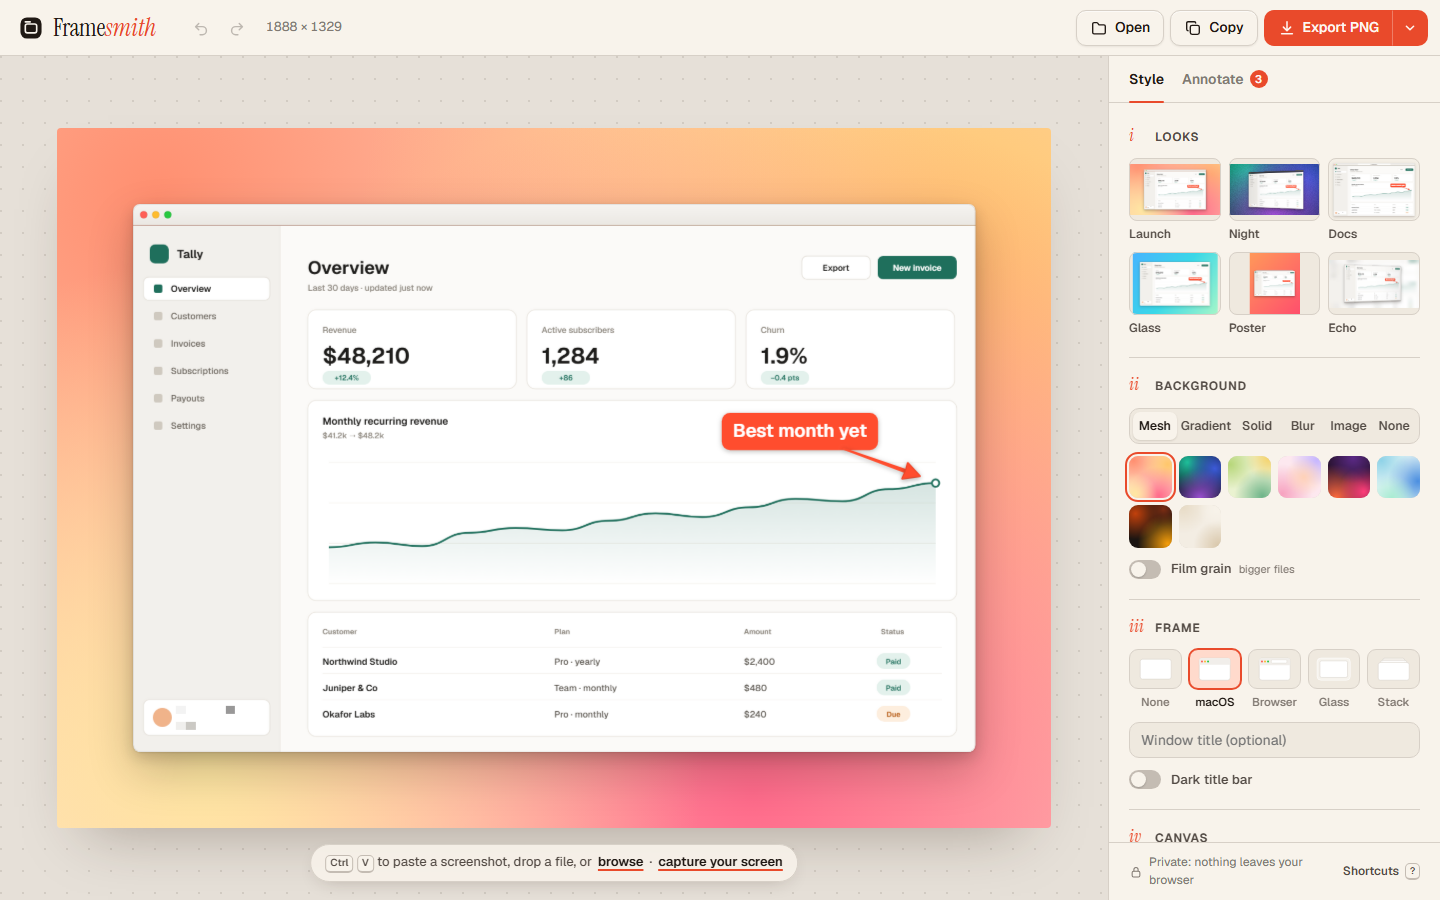
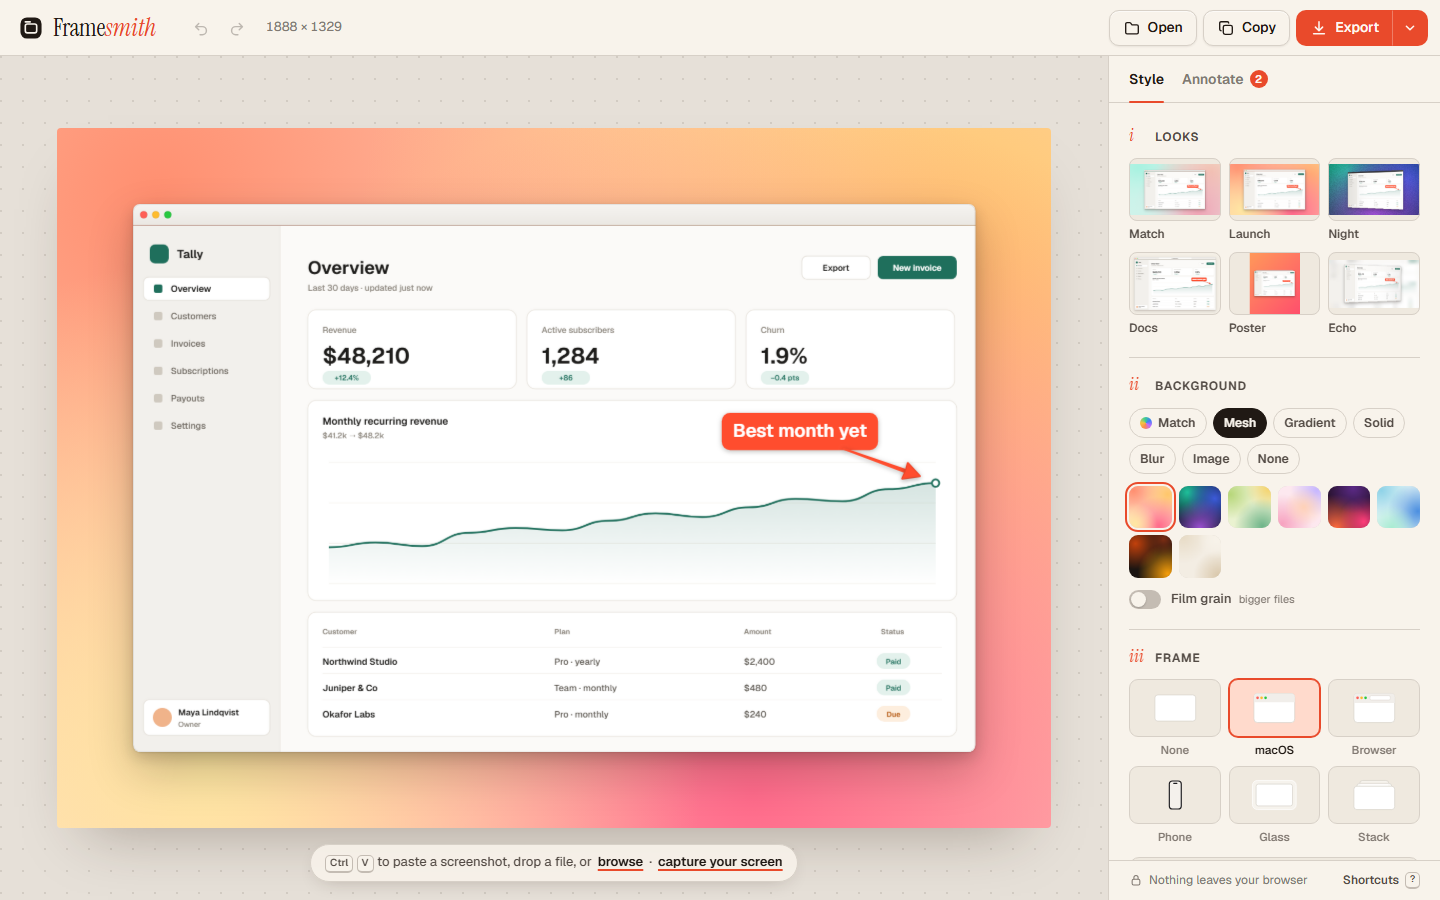
IndexedDB load timeout, full-width floating bars on mobile, Match look, adaptive looks, README

diff --git a/public/styles.css b/public/styles.css
@@ -406,9 +406,11 @@ kbd {
 
 .stage-hint {
   position: absolute;
-  left: 50%;
+  left: 16px;
+  right: 16px;
+  margin-inline: auto;
+  width: fit-content;
   bottom: 18px;
-  translate: -50% 0;
   display: flex;
   align-items: center;
   flex-wrap: wrap;
@@ -960,9 +962,11 @@ input[type='range'].centered::-moz-range-track {
 /* crop toolbar */
 .crop-bar {
   position: absolute;
-  left: 50%;
+  left: 12px;
+  right: 12px;
+  margin-inline: auto;
+  width: fit-content;
   bottom: 16px;
-  translate: -50% 0;
   display: flex;
   align-items: center;
   flex-wrap: wrap;
@@ -1293,6 +1297,9 @@ input[type='range'].centered::-moz-range-track {
   .crop-bar {
     bottom: 8px;
     gap: 8px;
+  }
+  .app[data-mode='crop'] {
+    grid-template-rows: var(--bar-h) minmax(460px, 72dvh) auto;
   }
 }
 

diff --git a/public/sw.js b/public/sw.js
@@ -1,5 +1,5 @@
 // Framesmith service worker: offline app shell + "Share to Framesmith" on mobile.
-const VERSION = 'fs-v2';
+const VERSION = 'fs-v3';
 const SHELL = [
   '/',
   '/styles.css',
@@ -12,6 +12,9 @@ const SHELL = [
   '/js/history.js',
   '/js/trim.js',
   '/js/demo.js',
+  '/js/crop.js',
+  '/js/palette.js',
+  '/js/session.js',
   '/icons/icon.svg',
   '/icons/icon-192.png',
 ];

diff --git a/README.md b/README.md
@@ -30,10 +30,17 @@ uploads nothing and is fast enough to stay part of your posting routine.
   installed.
 - **Looks.** One-click presets rendered live *with your own screenshot*, so you can see the
   result before you pick it.
-- **Backgrounds.** Mesh gradients, linear gradients, solids with a custom picker, a blurred copy
-  of your screenshot, your own wallpaper, or transparent. Film grain is optional.
-- **Frames.** macOS window, browser window with an editable URL (light or dark), glass border
-  and stacked cards.
+- **Match backgrounds.** Framesmith reads the accent colours out of your screenshot and builds a
+  mesh that belongs with it, in soft, vivid, deep or duotone. Every shot gets its own palette.
+- **More backgrounds.** Mesh gradients, linear gradients, solids with a custom picker, a blurred
+  copy of your screenshot, your own wallpaper, or transparent. Film grain is optional.
+- **Frames.** macOS window, browser window with an editable URL, a phone with bezel and
+  dynamic island (light or dark), glass border and stacked cards. Tall screenshots get the
+  phone automatically, and the looks adapt too.
+- **Crop and place.** Crop with ratio lock and auto-trim (<kbd>C</kbd>). Drag the shot anywhere
+  on the canvas, or let it bleed off an edge, with centre snapping. Annotations stay pinned to
+  their pixels through every crop.
+- **Signature.** An optional `@handle` badge in a bottom corner.
 - **3D tilt.** A true perspective warp with a matching shadow and sheen. It's not a CSS trick,
   so it exports exactly as you see it.
 - **Canvas sizes.** Auto, 16:9 (X), 1.91:1 (Open Graph/LinkedIn), 4:3, 1:1, 4:5 and 9:16. The
@@ -42,12 +49,15 @@ uploads nothing and is fast enough to stay part of your posting routine.
 - **Annotate.** Tapered arrows, boxes, highlighter, text labels, auto-numbered steps,
   spotlight, and redaction that pixelates for real (the original pixels are not in the
   export). Everything is movable, reshapable and recolorable.
-- **Export.** PNG, JPEG or WebP at 1×/2×/3×. It shows the file size and warns when a PNG would
-  go over X's 5 MB limit. Copy to clipboard in one keystroke.
-- **Undo everything.** Full undo/redo history, keyboard-first (`V A R H T N B F`,
-  <kbd>⌘Z</kbd>, <kbd>⌘C</kbd>, <kbd>⌘S</kbd>, <kbd>?</kbd> for the cheat sheet).
-- **Remembers you.** Your last style and saved styles persist locally. Works offline as an
-  installable PWA, with light and dark themes.
+- **Export.** Auto picks PNG, or switches to JPEG/WebP when a PNG would go over X's 5 MB upload
+  limit and tells you what it saved. PNG, JPEG or WebP are also available at 1×/2×/3×. Copy to
+  clipboard in one keystroke.
+- **Undo everything.** Full undo/redo history with Undo buttons right in the notifications,
+  keyboard-first (`V A R H T N B F C`, <kbd>⌘Z</kbd>, <kbd>⌘C</kbd>, <kbd>⌘S</kbd>, <kbd>?</kbd>
+  for the cheat sheet).
+- **Picks up where you left off.** Your last screenshot, crop, annotations and style come back
+  after a reload (stored in IndexedDB on your device). Saved styles persist too. Works offline
+  as an installable PWA, with light and dark themes.
 
 ## How it's built
 
@@ -64,6 +74,9 @@ public/
     render.js         one renderer for preview and export (background → shadow → card → tilt)
     backgrounds.js    procedural gradients, meshes, grain, blur
     annotations.js    annotation model, hit-testing, handles (pure)
+    crop.js           crop rectangle math with ratio lock (pure)
+    palette.js        accent-colour extraction + Match background builder (pure)
+    session.js        last-session persistence in IndexedDB
     trim.js           uniform-border detection (pure)
     history.js        snapshot undo/redo (pure)
     demo.js           a hand-drawn sample screenshot so first load is never empty
@@ -85,6 +98,9 @@ A few details worth knowing:
 - **Shadows use an off-canvas trick.** The card shape is drawn 50,000 px off-screen and only
   its shadow is offset back into view, so translucent frames and rounded corners never show a
   fill behind them.
+- **Match reads colour, not area.** Screenshots are mostly white and grey UI, so pixels are
+  binned and scored by saturation squared times frequency. The accent colour wins over the
+  page background, and near-duplicate hues merge. Grey UIs fall back to a warm palette.
 - **Canvas size is capped at 16 MP**, Safari's limit, so large 3× exports never fail silently.
   The export menu shows the capped size.
 
